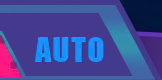
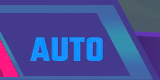
readme: new images for ui tweaks' auto fever notice with the new font, some text removed

diff --git a/readme.md b/readme.md
@@ -204,8 +204,7 @@ This feature syncs the "bubble flow" animation between HP and Fever bars:
 
 > [!NOTE]  
 > This does not include the Touhou danmaku mode, as a different texture for ~~Fever~~ Spell bar is used.  
-> In Bad Apple!!'s black-and-white mode the bubbles are invisible on the Fever bar, so the mod's effect is not noticeable.  
-> P E R O P E R O兄✰貴✰乱✰舞 has no visible UI.
+> In Bad Apple!!'s black-and-white mode the bubbles are invisible on the Fever bar, so the mod's effect is not noticeable.
 
 #### Alternative mode
 By default, Fever bar's texture is modified to match the default HP bar's one. If `SyncHpFeverAnimAlt` is set to true, the reverse will be done: HP bar's texture will be modified instead. This is purely cosmetic.
@@ -215,14 +214,10 @@ This feature changes the "FEVER" UI text to "AUTO" if automatic fever mode is cu
 
 | Manual fever | Automatic fever |
 | --- | --- |
-![what font it even is?](readme-images/ui-tweaks/fever-manual-default.png) | ![i went for impact because i first thought it is used originally, guess i was wrong](readme-images/ui-tweaks/fever-auto-default.png) |
+![i'm still wondering why this is an image instead of a text component](readme-images/ui-tweaks/fever-manual-default.png) | ![i guess it makes sense for bad apple with the outlining, but it was added years later](readme-images/ui-tweaks/fever-auto-default.png) |
 
-> [!NOTE]
-> I'm aware of the font mismatch. These can't be seen side-to-side in game anyway ¯\\\_(ツ)\_/¯  
-<!-- TODO issue link? -->
-
-<!-- TODO promote to a note when the font mismatch is resolved -->
-(Bad Apple!!'s black-and-white mode, which uses its own sprite, is also supported)
+> [!NOTE]  
+> Bad Apple!!'s black-and-white mode, which uses its own sprite, is also supported.
 
 ### Options menu text case
 This small feature fixes some of the buttons ("Audio", "Streaming Mode", "Goods Store") not being all caps like the rest of the buttons there:
